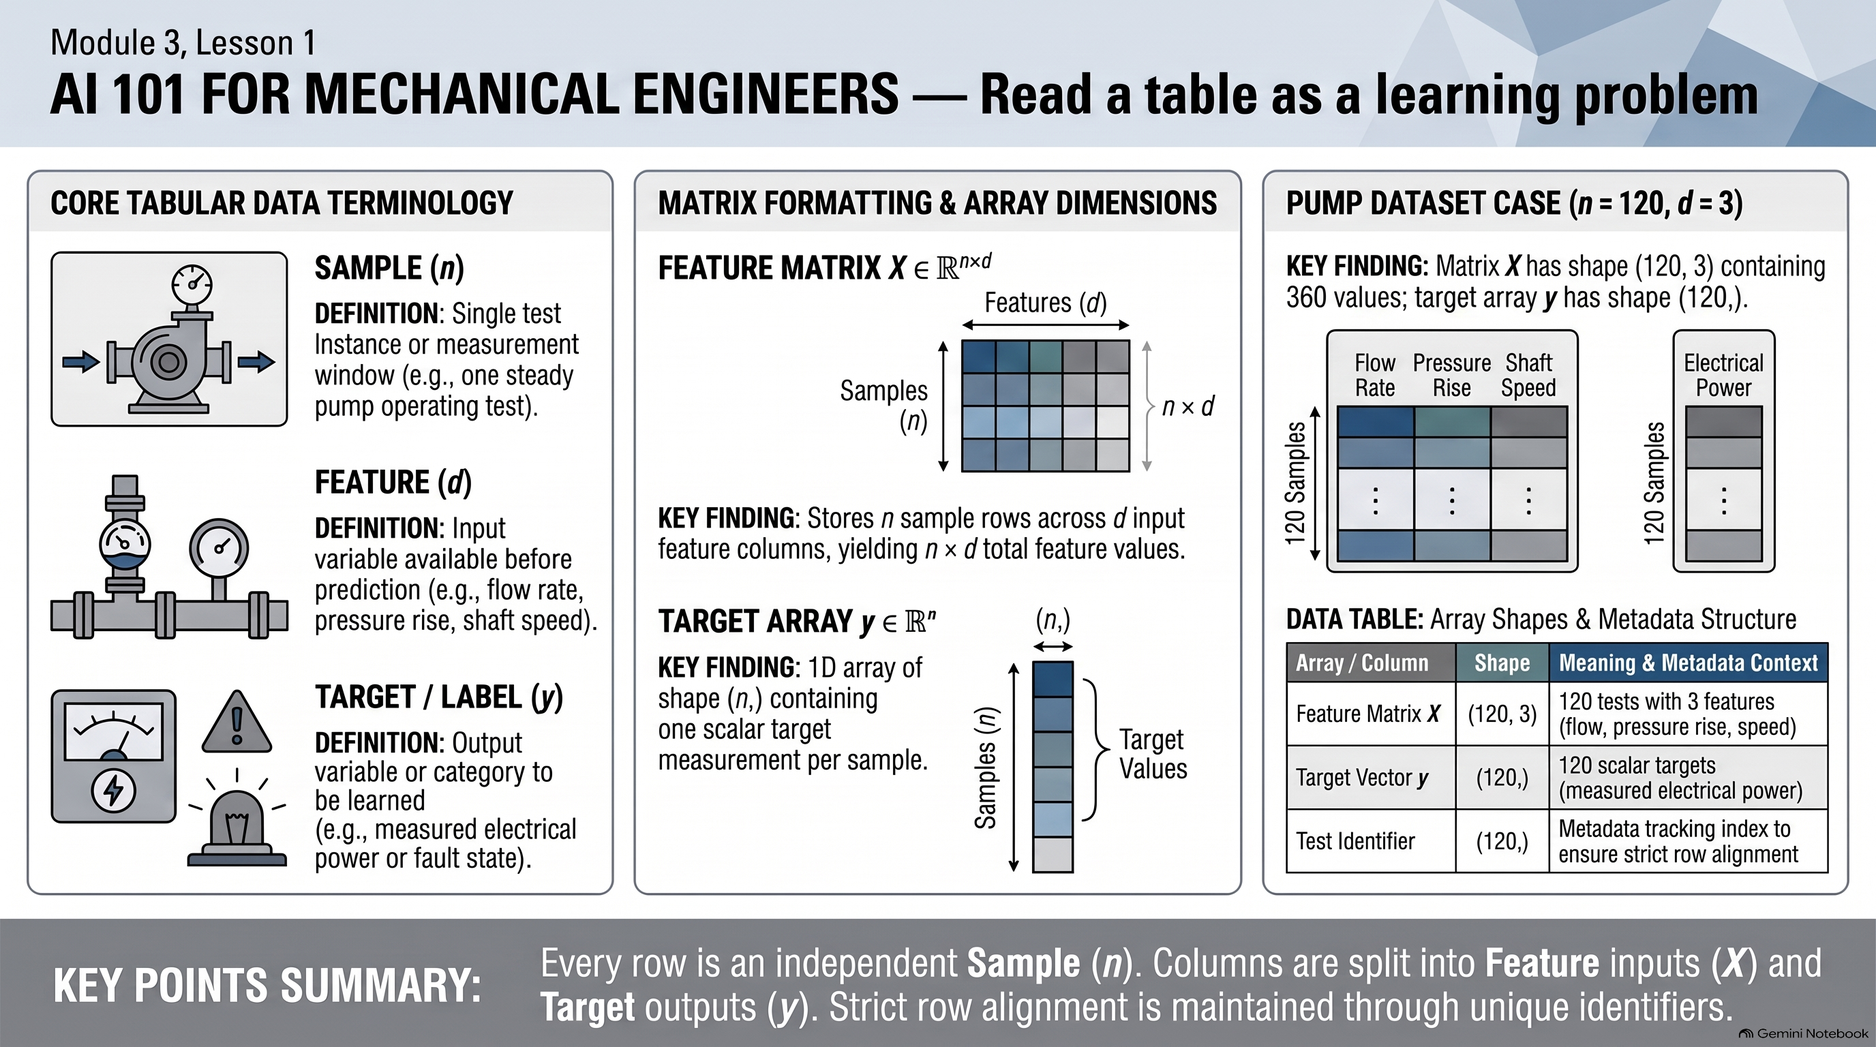
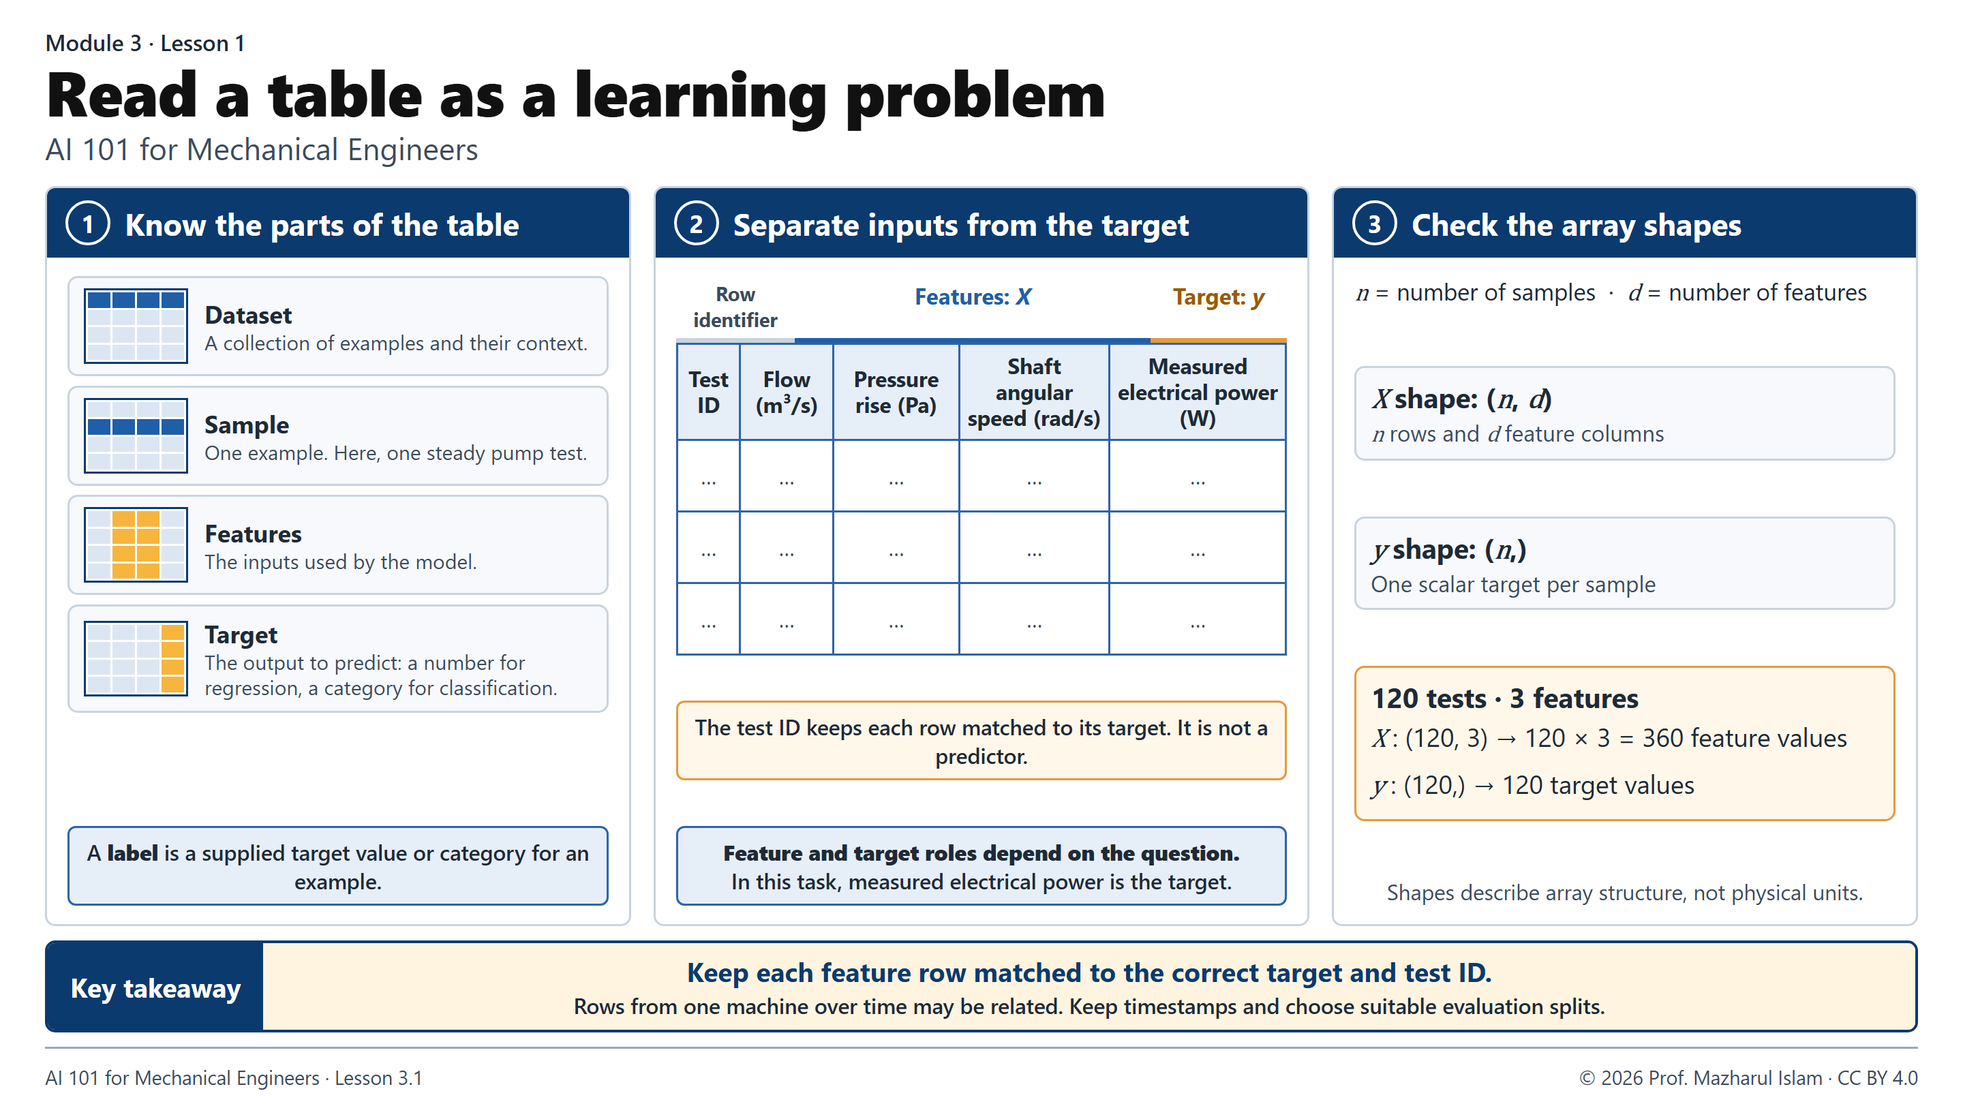
AI 101 Modules 3-4: replace lesson infographics with revised versions
Rebuilt the Lesson 3.1-3.3 and 4.1-4.3 infographics in the shared exact-text
template: copyright/licence footer restored, garbled words in the 4.2 draft
avoided, information leakage named in 3.3, test ID clarified as a row key in
3.1, semi-supervised learning given its own strip in 4.1, clearer RL wording
in 4.3. Updated image alt text.

diff --git a/AI101/AI_101_for_Mechanical_Engineers.html b/AI101/AI_101_for_Mechanical_Engineers.html
@@ -148,7 +148,7 @@ h.append(E('h3',{text:'Gemini Notebook'}),E('p',{},E('a',{href:review.mindMap,ta
 h.append(E('h3',{text:'Flashcards'}));deck(h,m.id);h.append(E('div',{class:'actions'},link('Proceed to Quiz',`#/m/${m.num}/quiz`,'btn primary')));
 }
 function modulePage(h,r){let m=MODS[r.n-1];title(h,'Module '+m.num+' / 16',m.title);let tabs=E('nav',{'aria-label':'Module sections',class:'tabs'});m.lessons.forEach((l,i)=>tabs.append(link((P.lessons[l.id]?'✓ ':'')+(i+1)+'. '+l.title,`#/m/${m.num}/${i+1}`,r.sub===String(i+1)?'active':'')));if(WALK[m.id])tabs.append(link('Code',`#/m/${m.num}/code`,r.sub==='code'?'active':''));tabs.append(link('Review',`#/m/${m.num}/review`,['review','cards'].includes(r.sub)?'active':''),link('Quiz',`#/m/${m.num}/quiz`,r.sub==='quiz'?'active':''));h.append(tabs);if(r.sub==='quiz'){let region=E('div');h.append(region);quiz(region,m.id);return;}if(r.sub==='code'){codePage(h,m);return;}if(['review','cards'].includes(r.sub)){moduleReview(h,m);return;}let l=m.lessons[+r.sub-1];h.append(E('h2',{text:l.title}));let outcomes=E('details',{},E('summary',{text:'Module learning outcomes'}));let ul=E('ul');m.outcomes.forEach(o=>ul.append(E('li',{text:o})));outcomes.append(ul);h.append(outcomes);prose(h,l.text);
-const media={m01l1:{video:'5PXqVJoDBgI',audio:'media/1_1-The_Math_Behind_Industrial_AI.m4a',image:'media/1_1-Relationships_Among_AI_Concepts.png',alt:'Lesson 1.1 infographic: AI contains machine learning, which contains deep learning; classification predicts a category while generation produces content; different components need different checks; data science runs from measure and clean to analyse, model and communicate'},m01l2:{video:'FSDlKaTM3Ws',audio:'media/1_2-How_Engineers_Distinguish_AI_From_Automation.m4a',image:'media/1_2-Automation_and_AI_Engineering_Concepts.png',alt:'Lesson 1.2 infographic: a fixed-rule thermostat example of automation; robots sense, decide and act using conventional control, AI or both; narrow AI compared with proposed AGI; five questions on inputs, learned components, outputs, permitted actions and failure consequences'},m01l3:{video:'MOJL4aPNaBY',audio:'media/1_3-Engineering_Decisions_Must_Come_Before_AI.m4a',image:'media/1_3-Defining_an_Engineering_Decision.png',alt:'Lesson 1.3 infographic: deciding whether to request a pump inspection, from measurements through a learned detector, fault score, engineering review and decision; a score is an estimate; operating domain and escalation path; limits of synthetic examples'},m02l1:{video:'ND8u7CSiTqs',audio:'media/2_1-Why_Mechanical_Engineering_Needs_Hybrid_AI.m4a',image:'media/2_1.png',alt:'Lesson 2.1 infographic: physics-based, data-driven and hybrid models compared; pump example with hydraulic power 100,000 Pa × 0.02 m³/s = 2,000 W and input power 2,000 W / 0.8 = 2,500 W; residual r = 2,800 W − 2,500 W = +300 W shows a difference but not its cause'},m02l2:{video:'p4ldXqJdehc',audio:'media/2_2-Why_Mechanical_Engineers_Need_Hybrid_AI.m4a',image:'media/2_2.png',alt:'Lesson 2.2 infographic: table matching prediction, forecasting, diagnosis, control and optimization to what each does and an example; ML training optimization changes model parameters to reduce loss, while engineering optimization changes design or operating variables within physical constraints'},m02l3:{video:'Ldz3IBLDv_Y',audio:'media/2_3-How_Mechanical_Engineers_Use_AI.m4a',image:'media/2_3.png',alt:'Lesson 2.3 infographic: start with the simplest adequate method; when ML might help; four checks of purpose, inputs, baseline and coverage; hybrid pump example with a +300 W residual; compare with the baseline before adding complexity'},m03l1:{video:'bUh9kmRi0_g',audio:'media/3_1-Mapping_Heavy_Machinery_to_Machine_Learning.m4a',image:'media/3_1.png',alt:'Samples, features, targets and array dimensions in a pump dataset infographic'},m03l2:{video:'N0vvkVlTw2o',audio:'media/3_2-Why_Engineering_AI_Needs_Sensor_Metadata.m4a',image:'media/3_2.png',alt:'Sensor metadata, measurement context, ground truth and provenance infographic'},m03l3:{video:'O9RXTf5J5-s',audio:'media/3_3-Why_Predictive_AI_Fails_Without_Physics.m4a',image:'media/3_3.png',alt:'Available inputs, data leakage, correlation, prediction and causation infographic'},m04l1:{video:'rfXJ_JKeYUs',audio:'media/4_1.m4a',image:'media/4_1.png',alt:'Supervised learning, unsupervised learning and anomaly verification infographic'},m04l2:{video:'C5h-mjjw18o',audio:'media/4_2.m4a',image:'media/4_2.png',alt:'Self-supervised target construction and learning setup infographic'},m04l3:{video:'fgg8jxrDiJw',audio:'media/4_3.m4a',image:'media/4_3.png',alt:'Reinforcement learning interaction, control and safety constraints infographic'},m05l1:{video:'0xyZPsXtMyY',audio:'media/5_1.m4a',image:'media/5_1.png',alt:'Measurement screening, missingness investigation and imputation rules infographic'},m05l2:{video:'DM1sfD_7cyk',audio:'media/5_2.m4a',image:'media/5_2.png',alt:'Feature scaling, leakage prevention and categorical encoding infographic'},m05l3:{video:'6oYBKyxmUFc',audio:'media/5_3.m4a',image:'media/5_3.png',alt:'Physics-based features, preprocessing pipelines and temporal boundaries infographic'},m06l1:{video:'M3Wq88DQj0s',audio:'media/6_1.m4a',image:'media/6_1.png',alt:'Model, learning algorithm, training, inference and retraining infographic'},m06l2:{video:'4SjSZjJOXro',audio:'media/6_2.m4a',image:'media/6_2.png',alt:'Parameters, hyperparameters, loss functions and engineering acceptance criteria infographic'},m06l3:{video:'RSWwn7m9Ph4',audio:'media/6_3.m4a',image:'media/6_3.png',alt:'Fair baselines, reproducibility, random seeds and procedural limits infographic'},m07l1:{video:'M8Mqp4O3bAs',audio:'media/7_1.m4a',image:'media/7_1.png',alt:'Linear regression coefficients, units, prediction and residual infographic'},m07l2:{video:'uvZOy3Jhj5Y',audio:'media/7_2.m4a',image:'media/7_2.png',alt:'Regression metrics, residual analysis and evaluation limits infographic'},m07l3:{video:'2Czwc72Fchc',audio:'media/7_3.m4a',image:'media/7_3.png',alt:'Minimal regression workflow, baselines, evaluation and reporting infographic'},m08l1:{video:'NKojhzCHcZE',audio:'media/8_1.m4a',image:'media/8_1.png',alt:'Classification scores, thresholds, calibration and confusion-matrix outcomes infographic'},m08l2:{video:'zOTYwt-Tr54',audio:'media/8_2.m4a',image:'media/8_2.png',alt:'Classification metrics, fault-detection questions and operating thresholds infographic'},m08l3:{video:'b0OM6lczsRk',audio:'media/8_3.m4a',image:'media/8_3.png',alt:'Class imbalance, detector evaluation and deployment consequences infographic'},m09l1:{video:'y80ne8Vybo4',audio:'media/9_1.m4a',image:'media/9_1.png',alt:'Regression, nearest-neighbour and support-vector classification methods infographic'},m09l2:{video:'2YmEhBzF2MY',audio:'media/9_2.m4a',image:'media/9_2.png',alt:'Decision trees, random forests, boosting and validation limits infographic'},m09l3:{video:'9APUCDA6pVk',audio:'media/9_3.m4a',image:'media/9_3.png',alt:'Clustering, principal component analysis, scaling and fair candidate comparison infographic'},m10l1:{video:'B279XXNadbY',audio:'media/10_1.m4a',image:'media/10_1.png',alt:'Training, validation, final test boundaries and leakage prevention infographic'},m10l2:{video:'uMrToW1n1Vg',audio:'media/10_2.m4a',image:'media/10_2.png',alt:'Underfitting, overfitting, regularization and early stopping infographic'},m10l3:{video:'ZQJwwFjbULQ',audio:'media/10_3.m4a',image:'media/10_3.png',alt:'Preprocessing, temporal, target-derived leakage and reproducible evaluation infographic'},m11l1:{video:'6kmxgxU5OtU',audio:'media/11_1.m4a',image:'media/11_1.png',alt:'Neuron weighted sums, ReLU activation and nonlinear layer composition infographic'},m11l2:{video:'HpPJ6ckgXU4',audio:'media/11_2.m4a',image:'media/11_2.png',alt:'Loss, backpropagation, gradients and parameter updates infographic'},m11l3:{video:'yGjRY3dHNCw',audio:'media/11_3.m4a',image:'media/11_3.png',alt:'Batches, epochs, validation checkpoints and generalization limits infographic'},m12l1:{video:'3mFpYxI7084',audio:'media/12_1.m4a',image:'media/12_1.png',alt:'Data representations, architecture selection and component-level holdout infographic'},m12l2:{video:'iQtAabOUAOw',audio:'media/12_2.m4a',image:'media/12_2.png',alt:'Sequence architectures, attention mechanisms and forecast issue-time boundaries infographic'},m12l3:{video:'o1sjsbKAx9c',audio:'media/12_3.m4a',image:'media/12_3.png',alt:'Signal windowing, timestamp integrity, forecast horizons and temporal leakage prevention infographic'},m13l1:{video:'5BVmXgZNgpg',audio:'media/13_1.m4a',image:'media/13_1.png',alt:'Generative model categories and engineering evidence limits infographic'},m13l2:{video:'Se06_TxJul8',audio:'media/13_2.m4a',image:'media/13_2.png',alt:'Tokens, context windows, embeddings and technical disambiguation limits infographic'},m13l3:{video:'XoYcvrMW2y8',audio:'media/13_3.m4a',image:'media/13_3.png',alt:'Pretraining, fine-tuning and transfer learning versus temporary prompting and retrieval context infographic'},m14l1:{video:'1XHxHqd6P0k',audio:'media/14_1.m4a',image:'media/14_1.png',alt:'Engineering prompt structure and verification infographic'},m14l2:{video:'7oluOfQTwac',audio:'media/14_2.m4a',image:'media/14_2.png',alt:'Retrieval-augmented generation, evidence checks and inference-time context infographic'},m14l3:{video:'-ZsxFY5h02I',audio:'media/14_3.m4a',image:'media/14_3.png',alt:'Engineering tools, APIs, agent coordination and human oversight infographic'},m15l1:{video:'dNbzZDsyR_I',audio:'media/15_1.m4a',image:'media/15_1.png',alt:'Aleatoric and epistemic uncertainty, operating coverage, calibration, distribution shift and drift infographic'},m15l2:{video:'ZDOon3TWimU',audio:'media/15_2.m4a',image:'media/15_2.png',alt:'Verification versus validation, independent physical evidence, provenance and reproducibility infographic'},m15l3:{video:'Kg4aBcgdeC8',audio:'media/15_3.m4a',image:'media/15_3.png',alt:'Output verification, privacy and security, human oversight, disclosure and resource responsibility infographic'},m16l1:{video:'9Q3hvMOewXg',audio:'media/16_1.m4a',image:'media/16_1.png',alt:'Engineering application evidence needs, surrogate models, optimization, digital twins and physics-informed learning infographic'},m16l2:{video:'O-9Nl2pD5po',audio:'media/16_2.m4a',image:'media/16_2.png',alt:'Mini-project scoping, data provenance, fair evaluation, baselines, metrics and reproducibility infographic'},m16l3:{video:'59A56rQ40ts',audio:'media/16_3.m4a',image:'media/16_3.png',alt:'Browser knowledge score versus practical evidence, mini-project rubric, reproducibility and responsible AI-use infographic'}};
+const media={m01l1:{video:'5PXqVJoDBgI',audio:'media/1_1-The_Math_Behind_Industrial_AI.m4a',image:'media/1_1-Relationships_Among_AI_Concepts.png',alt:'Lesson 1.1 infographic: AI contains machine learning, which contains deep learning; classification predicts a category while generation produces content; different components need different checks; data science runs from measure and clean to analyse, model and communicate'},m01l2:{video:'FSDlKaTM3Ws',audio:'media/1_2-How_Engineers_Distinguish_AI_From_Automation.m4a',image:'media/1_2-Automation_and_AI_Engineering_Concepts.png',alt:'Lesson 1.2 infographic: a fixed-rule thermostat example of automation; robots sense, decide and act using conventional control, AI or both; narrow AI compared with proposed AGI; five questions on inputs, learned components, outputs, permitted actions and failure consequences'},m01l3:{video:'MOJL4aPNaBY',audio:'media/1_3-Engineering_Decisions_Must_Come_Before_AI.m4a',image:'media/1_3-Defining_an_Engineering_Decision.png',alt:'Lesson 1.3 infographic: deciding whether to request a pump inspection, from measurements through a learned detector, fault score, engineering review and decision; a score is an estimate; operating domain and escalation path; limits of synthetic examples'},m02l1:{video:'ND8u7CSiTqs',audio:'media/2_1-Why_Mechanical_Engineering_Needs_Hybrid_AI.m4a',image:'media/2_1.png',alt:'Lesson 2.1 infographic: physics-based, data-driven and hybrid models compared; pump example with hydraulic power 100,000 Pa × 0.02 m³/s = 2,000 W and input power 2,000 W / 0.8 = 2,500 W; residual r = 2,800 W − 2,500 W = +300 W shows a difference but not its cause'},m02l2:{video:'p4ldXqJdehc',audio:'media/2_2-Why_Mechanical_Engineers_Need_Hybrid_AI.m4a',image:'media/2_2.png',alt:'Lesson 2.2 infographic: table matching prediction, forecasting, diagnosis, control and optimization to what each does and an example; ML training optimization changes model parameters to reduce loss, while engineering optimization changes design or operating variables within physical constraints'},m02l3:{video:'Ldz3IBLDv_Y',audio:'media/2_3-How_Mechanical_Engineers_Use_AI.m4a',image:'media/2_3.png',alt:'Lesson 2.3 infographic: start with the simplest adequate method; when ML might help; four checks of purpose, inputs, baseline and coverage; hybrid pump example with a +300 W residual; compare with the baseline before adding complexity'},m03l1:{video:'bUh9kmRi0_g',audio:'media/3_1-Mapping_Heavy_Machinery_to_Machine_Learning.m4a',image:'media/3_1.png',alt:'Lesson 3.1 infographic: dataset, sample, features, target and label; a pump-test table with flow, pressure rise and shaft speed as features X and measured electrical power as target y; X has shape (120, 3) and y has shape (120,); keep each row matched by test ID'},m03l2:{video:'N0vvkVlTw2o',audio:'media/3_2-Why_Engineering_AI_Needs_Sensor_Metadata.m4a',image:'media/3_2.png',alt:'Lesson 3.2 infographic: metadata such as units, sensor ID, calibration and sampling frequency; raw readings versus a windowed RMS feature; machine IDs and ordinal or nominal categories are not measurements; ground truth is a reference that can contain errors'},m03l3:{video:'O9RXTf5J5-s',audio:'media/3_3-Why_Predictive_AI_Fails_Without_Physics.m4a',image:'media/3_3.png',alt:'Lesson 3.3 infographic: a timeline showing that a repair code recorded after a failure is information leakage for an earlier warning; correlation, prediction and causation compared using flow rate and motor current'},m04l1:{video:'rfXJ_JKeYUs',audio:'media/4_1.m4a',image:'media/4_1.png',alt:'Lesson 4.1 infographic: supervised learning with regression and classification; unsupervised clustering, where a cluster is not automatically a fault category; anomaly alerts that need investigation and independent evidence; semi-supervised learning'},m04l2:{video:'C5h-mjjw18o',audio:'media/4_2.m4a',image:'media/4_2.png',alt:'Lesson 4.2 infographic: masked-signal reconstruction in four steps of observation, constructed input, constructed target and objective; a neural network can use supervised, self-supervised or reinforcement feedback, so architecture does not determine the learning setup'},m04l3:{video:'fgg8jxrDiJw',audio:'media/4_3.m4a',image:'media/4_3.png',alt:'Lesson 4.3 infographic: agent and simulated environment exchanging actions, state and reward; thermal-control example mapping state, action, environment, reward and policy; reward and safety constraints kept separate, beginning with bounded simulation'},m05l1:{video:'0xyZPsXtMyY',audio:'media/5_1.m4a',image:'media/5_1.png',alt:'Measurement screening, missingness investigation and imputation rules infographic'},m05l2:{video:'DM1sfD_7cyk',audio:'media/5_2.m4a',image:'media/5_2.png',alt:'Feature scaling, leakage prevention and categorical encoding infographic'},m05l3:{video:'6oYBKyxmUFc',audio:'media/5_3.m4a',image:'media/5_3.png',alt:'Physics-based features, preprocessing pipelines and temporal boundaries infographic'},m06l1:{video:'M3Wq88DQj0s',audio:'media/6_1.m4a',image:'media/6_1.png',alt:'Model, learning algorithm, training, inference and retraining infographic'},m06l2:{video:'4SjSZjJOXro',audio:'media/6_2.m4a',image:'media/6_2.png',alt:'Parameters, hyperparameters, loss functions and engineering acceptance criteria infographic'},m06l3:{video:'RSWwn7m9Ph4',audio:'media/6_3.m4a',image:'media/6_3.png',alt:'Fair baselines, reproducibility, random seeds and procedural limits infographic'},m07l1:{video:'M8Mqp4O3bAs',audio:'media/7_1.m4a',image:'media/7_1.png',alt:'Linear regression coefficients, units, prediction and residual infographic'},m07l2:{video:'uvZOy3Jhj5Y',audio:'media/7_2.m4a',image:'media/7_2.png',alt:'Regression metrics, residual analysis and evaluation limits infographic'},m07l3:{video:'2Czwc72Fchc',audio:'media/7_3.m4a',image:'media/7_3.png',alt:'Minimal regression workflow, baselines, evaluation and reporting infographic'},m08l1:{video:'NKojhzCHcZE',audio:'media/8_1.m4a',image:'media/8_1.png',alt:'Classification scores, thresholds, calibration and confusion-matrix outcomes infographic'},m08l2:{video:'zOTYwt-Tr54',audio:'media/8_2.m4a',image:'media/8_2.png',alt:'Classification metrics, fault-detection questions and operating thresholds infographic'},m08l3:{video:'b0OM6lczsRk',audio:'media/8_3.m4a',image:'media/8_3.png',alt:'Class imbalance, detector evaluation and deployment consequences infographic'},m09l1:{video:'y80ne8Vybo4',audio:'media/9_1.m4a',image:'media/9_1.png',alt:'Regression, nearest-neighbour and support-vector classification methods infographic'},m09l2:{video:'2YmEhBzF2MY',audio:'media/9_2.m4a',image:'media/9_2.png',alt:'Decision trees, random forests, boosting and validation limits infographic'},m09l3:{video:'9APUCDA6pVk',audio:'media/9_3.m4a',image:'media/9_3.png',alt:'Clustering, principal component analysis, scaling and fair candidate comparison infographic'},m10l1:{video:'B279XXNadbY',audio:'media/10_1.m4a',image:'media/10_1.png',alt:'Training, validation, final test boundaries and leakage prevention infographic'},m10l2:{video:'uMrToW1n1Vg',audio:'media/10_2.m4a',image:'media/10_2.png',alt:'Underfitting, overfitting, regularization and early stopping infographic'},m10l3:{video:'ZQJwwFjbULQ',audio:'media/10_3.m4a',image:'media/10_3.png',alt:'Preprocessing, temporal, target-derived leakage and reproducible evaluation infographic'},m11l1:{video:'6kmxgxU5OtU',audio:'media/11_1.m4a',image:'media/11_1.png',alt:'Neuron weighted sums, ReLU activation and nonlinear layer composition infographic'},m11l2:{video:'HpPJ6ckgXU4',audio:'media/11_2.m4a',image:'media/11_2.png',alt:'Loss, backpropagation, gradients and parameter updates infographic'},m11l3:{video:'yGjRY3dHNCw',audio:'media/11_3.m4a',image:'media/11_3.png',alt:'Batches, epochs, validation checkpoints and generalization limits infographic'},m12l1:{video:'3mFpYxI7084',audio:'media/12_1.m4a',image:'media/12_1.png',alt:'Data representations, architecture selection and component-level holdout infographic'},m12l2:{video:'iQtAabOUAOw',audio:'media/12_2.m4a',image:'media/12_2.png',alt:'Sequence architectures, attention mechanisms and forecast issue-time boundaries infographic'},m12l3:{video:'o1sjsbKAx9c',audio:'media/12_3.m4a',image:'media/12_3.png',alt:'Signal windowing, timestamp integrity, forecast horizons and temporal leakage prevention infographic'},m13l1:{video:'5BVmXgZNgpg',audio:'media/13_1.m4a',image:'media/13_1.png',alt:'Generative model categories and engineering evidence limits infographic'},m13l2:{video:'Se06_TxJul8',audio:'media/13_2.m4a',image:'media/13_2.png',alt:'Tokens, context windows, embeddings and technical disambiguation limits infographic'},m13l3:{video:'XoYcvrMW2y8',audio:'media/13_3.m4a',image:'media/13_3.png',alt:'Pretraining, fine-tuning and transfer learning versus temporary prompting and retrieval context infographic'},m14l1:{video:'1XHxHqd6P0k',audio:'media/14_1.m4a',image:'media/14_1.png',alt:'Engineering prompt structure and verification infographic'},m14l2:{video:'7oluOfQTwac',audio:'media/14_2.m4a',image:'media/14_2.png',alt:'Retrieval-augmented generation, evidence checks and inference-time context infographic'},m14l3:{video:'-ZsxFY5h02I',audio:'media/14_3.m4a',image:'media/14_3.png',alt:'Engineering tools, APIs, agent coordination and human oversight infographic'},m15l1:{video:'dNbzZDsyR_I',audio:'media/15_1.m4a',image:'media/15_1.png',alt:'Aleatoric and epistemic uncertainty, operating coverage, calibration, distribution shift and drift infographic'},m15l2:{video:'ZDOon3TWimU',audio:'media/15_2.m4a',image:'media/15_2.png',alt:'Verification versus validation, independent physical evidence, provenance and reproducibility infographic'},m15l3:{video:'Kg4aBcgdeC8',audio:'media/15_3.m4a',image:'media/15_3.png',alt:'Output verification, privacy and security, human oversight, disclosure and resource responsibility infographic'},m16l1:{video:'9Q3hvMOewXg',audio:'media/16_1.m4a',image:'media/16_1.png',alt:'Engineering application evidence needs, surrogate models, optimization, digital twins and physics-informed learning infographic'},m16l2:{video:'O-9Nl2pD5po',audio:'media/16_2.m4a',image:'media/16_2.png',alt:'Mini-project scoping, data provenance, fair evaluation, baselines, metrics and reproducibility infographic'},m16l3:{video:'59A56rQ40ts',audio:'media/16_3.m4a',image:'media/16_3.png',alt:'Browser knowledge score versus practical evidence, mini-project rubric, reproducibility and responsible AI-use infographic'}};
 let extra=media[l.id];if(extra){
 let box=E('section',{class:'learning-media','aria-label':'Lesson learning resources'});
 const resourceLink=(text,href,download=false)=>E('a',{href,target:'_blank',rel:'noopener',...(download?{download:''}:{}),text});
